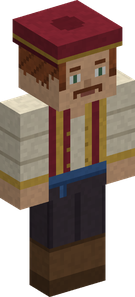
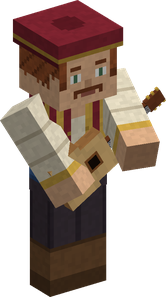
The Shandias hold their weapon, the Travelling Musician his guitar (#94)

diff --git a/docs/mods/sky-island/upper-yards.md b/docs/mods/sky-island/upper-yards.md
@@ -42,18 +42,18 @@ The warriors of Shandora, and their chief, guarding their land. **They attack on
 <div class="mob-gallery" markdown>
 
 <figure markdown>
-![A Shandia warrior, with wings and skates](mobs/shandia-warrior.png)
-<figcaption>A warrior (one of six looks)</figcaption>
+![A Shandia warrior with wings and skates, a Shandia spear in his hand](mobs/shandia-warrior.png)
+<figcaption>A warrior with his spear (one of six looks)</figcaption>
 </figure>
 
 <figure markdown>
-![The Shandia chief, with wings and skates](mobs/shandia-chief.png)
-<figcaption>The chief</figcaption>
+![The Shandia chief with wings and skates, the burn bazooka in his hand](mobs/shandia-chief.png)
+<figcaption>The chief with the burn bazooka</figcaption>
 </figure>
 
 </div>
 
-In 3D: drag to turn, scroll or pinch to zoom; the buttons change the look. They are shown without the weapon they carry.
+In 3D: drag to turn, scroll or pinch to zoom; the buttons change the look. The warrior is shown with the spear, the commonest of his six weapons.
 
 <div class="model-viewer" data-models="../models/" data-ids="shandia-warrior shandia-chief"></div>
 

diff --git a/docs/mods/cruise/village-events.md b/docs/mods/cruise/village-events.md
@@ -45,8 +45,8 @@ They are told like the [events at sea](events-at-sea.md#how-you-hear-of-them): i
 <div class="mob-gallery" markdown>
 
 <figure markdown>
-![The Travelling Musician, in a red beret and braces](pictures/travelling-musician.png)
-<figcaption>The Travelling Musician</figcaption>
+![The Travelling Musician in a red beret and braces, playing his guitar](pictures/travelling-musician.png)
+<figcaption>The Travelling Musician, at his guitar</figcaption>
 </figure>
 
 </div>
